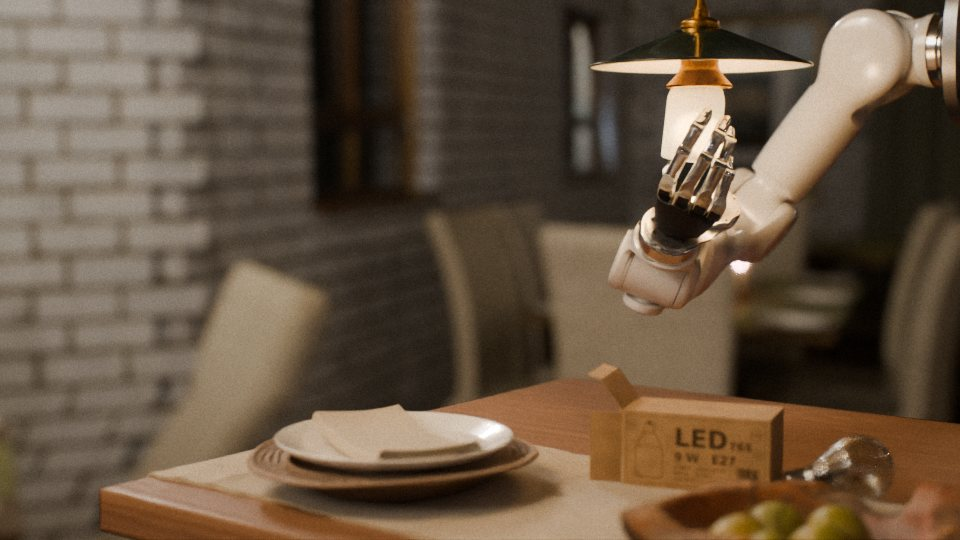
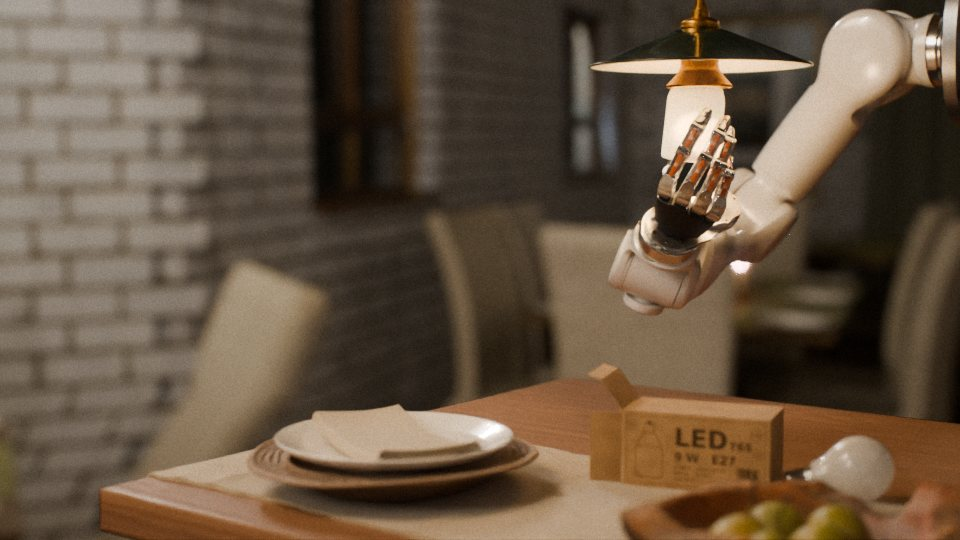
control grasp final: 3 of 3 judged episodes pass; correction

Changed region(s): [[0.6875, 0.237, 0.7812, 0.4148], [0.8438, 0.8, 0.9375, 0.9481]]

diff --git a/status.html b/status.html
@@ -16,7 +16,7 @@ code{font-size:12.5px}
 details{margin:8px 0}summary{cursor:pointer;font-weight:600}
 .chips span{display:inline-block;font-size:11.5px;padding:1px 7px;border-radius:9px;border:1px solid #d6d4cc;margin:0 4px 4px 0;background:#f6f5f1}
 </style></head><body>
-<p class="na"><a href="index.html">dashboard</a> · state as of 2026-11-24 16:24 · page built 2026-11-24 16:24</p>
+<p class="na"><a href="index.html">dashboard</a> · state as of 2026-11-24 16:55 · page built 2026-11-24 16:55</p>
 <h1>Where the overnight work stands</h1>
 <p>You asked, on the night of 23 to 24 November, for the Embodied First Exam's dexterous tasks to be ported into our MuJoCo with
 our robot and the physics proven the same, and for a skill layer in which every skill plans its motion from the depth image, iterated
@@ -24,13 +24,13 @@ without stopping. This page is the short version; the detail is on <a href="efe.
 <a href="skills_v2.html">the skills page</a>.</p>
 <p class="na">Nothing ran from about 10:45 to 12:10 (the connection to the model API was down; every worker stopped and was restarted at 12:17 from the files on disk). One memory incident at 07:18 (a 33 GB script of the other session, killed by the kernel); nothing of this work was lost in either.</p>
 <div class="box zh"><p style="margin:5px 0">移植（Embodied First Exam 灵巧手任务）：两个 MuJoCo 套件共 51 个任务（DexHandExam 30 个、DexToolBench 21 个），任务描述已全部记录。原始代码已在它自带的 Docker 镜像里逐个跑通并录像。51 个任务都和原始代码做了逐控制步的动力学对比：在同一个 MuJoCo 版本内，导出的场景与原始代码逐比特一致；但原始版本（3.4.0 / 3.3.7）和我们的 3.8.0 之间运动并不相同，基准自带的参考解在我们的引擎里 DexHandExam 41 个中只有 26 个仍然成功，DexToolBench 6 个完整的参考解一个也没有。渲染：DexHandExam 的 30 个任务做了逐像素对比（同类软件渲染器下平均差不超过 0.14/255），DexToolBench 只比了第一帧（平均差约 1/255）。</p><p style="margin:5px 0">换机器人：我们的天机 + Wuji 2 机器人已放进全部 51 个场景，其中 47 个（DexHandExam 26 个、DexToolBench 21 个）建好了任务目录，并在联合仿真里跑过一次 3 秒的静置回合（机器人不发任何指令），用原始成功判据判定为“未完成”；这是预期结果，不是成绩。另外 4 个没有做到：3 个“物体一开始就握在手里”的任务，原始起始姿态搬不到我们的手上；paper_half_fold 在我们的引擎里无法仿真（纸会从桌沿穿下去），等你决定。</p><p style="margin:5px 0">技能层（参照 ASPIRE 的封装方式）：新包 s2/dexharness/cap 已建成，共 14 个技能。每个技能都以当前深度图为输入，只执行运动规划器给出的轨迹：碰撞模型由深度图建立，轨迹的每一行都是天机臂 IK 解出并做过碰撞检查的关节构型；抬升是每 5 mm 求一次 IK 的竖直线，某一点无解时改走关节空间路径，再不行就拒绝。目前只有 4 个技能（移动到位姿、抬升、撤离、回原位）在真实联合仿真里跑过：共 12 次调用，空手、不带跟踪策略，机器人没有碰到任何东西，掌心平均跟踪误差约 1 mm，每次调用都有三联视频。同一批测试里还查出一个错误结果：移动途中握拳时，规划只检查了张开的手，拳头压到了球上，技能却报告成功；现已修复并经独立复测确认（球旁握拳的指令在动作前即被拒绝，球不再被碰动），复测另查出两处遗留问题，正在第二轮里修。其余 10 个技能还没有在联合仿真里跑过，也没有视频。</p><p style="margin:5px 0">还没有做到的：新技能层还没有抓起过任何物体（不论带不带跟踪策略），也没有尝试过任何一个移植任务，所以没有任何任务被完成；这些正在第二轮里做（已于 13:19 启动）。另外，10:45 到 12:10 模型 API 断线，所有工作进程停了约一个半小时，12:17 重新启动。</p><p style="margin:5px 0">需要你决定的事项紧接在下面（“Decisions”）。本页的数字已由四个独立检查进程逐条对照文件核对过，下面是改正后的版本。</p></div>
-<div class="kpis"><div class="kpi"><b>51 of 51</b><span>task descriptions recorded (the two MuJoCo suites; the exam labels 62 as dexterous)</span></div><div class="kpi"><b>51 of 51</b><span>tasks compared step by step with the original code: identical inside one MuJoCo version, not between the original&#x27;s version and ours</span></div><div class="kpi"><b>47 of 51</b><span>tasks with our robot in the scene, a task folder and a 3-second idle episode judged by the original rule (DexHandExam 26 of 30, DexToolBench 21 of 21)</span></div><div class="kpi"><b>0</b><span>ported tasks attempted or solved</span></div><div class="kpi"><b>6 of 18</b><span>skills of the new layer that have run in the co-simulation (11 tools beside them, one a placeholder)</span></div><div class="kpi"><b>0</b><span>objects grasped through the new layer, with or without the tracking policy</span></div></div>
+<div class="kpis"><div class="kpi"><b>51 of 51</b><span>task descriptions recorded (the two MuJoCo suites; the exam labels 62 as dexterous)</span></div><div class="kpi"><b>51 of 51</b><span>tasks compared step by step with the original code: identical inside one MuJoCo version, not between the original&#x27;s version and ours</span></div><div class="kpi"><b>47 of 51</b><span>tasks with our robot in the scene, a task folder and a 3-second idle episode judged by the original rule (DexHandExam 26 of 30, DexToolBench 21 of 21)</span></div><div class="kpi"><b>0</b><span>ported tasks attempted or solved</span></div><div class="kpi"><b>6 of 21</b><span>skills of the new layer that have run in the co-simulation (12 tools beside them, one a placeholder)</span></div><div class="kpi"><b>0</b><span>objects grasped through the new layer, with or without the tracking policy</span></div></div>
 <div class="box warn"><b>What is not done.</b> No ported task has been attempted, let alone solved. Nothing has been grasped through
-the new skill layer, with or without the tracking policy. Only 6 of its 18 skills have run in the co-simulation, none with the tracking policy. The port
+the new skill layer, with or without the tracking policy. Only 6 of its 21 skills have run in the co-simulation, none with the tracking policy. The port
 and the layer are the ground those attempts stand on; the attempts are the next round.</div>
 
 <h2>Current round (started 14:35): the skill layer on the 50 in-house tasks</h2>
-<ul><li><b>Your change of 16:15: S2 sees only through a head camera on the robot, looking down; no third-person camera.</b> Being made now: one camera with depth mounted on the robot's stand above the arm bases is the only source of the pictures S2 looks at and of the depth every skill plans against; the scene's own cameras are refused to the agent side; the hands' wrist cameras are off too unless you say otherwise. A scene camera still films each episode for this site, for viewers only, and the video will say so. <b>Every result below was obtained with four scene cameras, before this rule</b>; the tasks that passed (t41, t19) and the paperweight grasp are re-run under the head camera as soon as the change is in, to see whether the results hold.</li><li>Your instruction: SAM 3D for the S2 layer; skills that generate motion from depth and from what the policy can do; a loop of S2 -> skill -> S2 -> skill; probe and test on the 50 in-house tasks (daily50); success rate and annotated videos on a sub page; maximise the success rate. Results page: <a href="daily50_run.html">daily50_run.html</a> (generated only from episode records).</li><li><b>Result so far: no counted test episode yet, so there is no success rate.</b> In development (never counted): PASS by the task's own rule on <b>2 tasks</b> so far (t41: 2 of 3 episodes; t19: 1 of 2), none yet on t49 and t27. About 20 task scenes were rewritten by another session at 16:00 while these ran (t41 and t19 among them): the page marks those episodes as run on an earlier version of the scene, and the counted test series waits until the tasks are frozen.</li><li><b>First PASS of a task by an LLM agent in the live loop (15:51, t41 "switch on the power strip", a development episode):</b> the agent looked, pressed the switch once with a guarded fingertip press (1 cm travel, 3 cm/s), and went home; the task's own rule says PASS. Its first episode had FAILED: the default press toggled the switch but shoved the strip 2.7 cm and pulled the plug, and a second press switched it off again; the agent learned from that. It is a development episode: the agent saw the host's verdict after closing the first one. It is not yet audited and not a success rate. <b>That agent has finished (16:01): 3 episodes, FAIL, PASS, PASS.</b> A press 5 mm deep does not toggle the switch, 1 cm does and moves the strip 7 mm, 2 cm shoves it. What it could not get from the tools: the press skill gives no feedback at all on a light object (the same reply whether it toggled, did nothing, or shoved the strip); perception does not return the switch pad, so the agent converted a pixel of the top camera picture into a world point itself; and it disclosed that the press depth was its own estimate from the pictures, and that the scene never varies, so fresh perception and memory cannot be told apart there.</li><li>Pilot, t49 "weigh the orange" (development): no pass in three episodes; the scripted grasp lifts the orange, but it is lost at the start of the carry every time (onto the saucer, to the floor). Its agent was cut off by an API failure during the fourth episode; the grip limits during a carry are being measured from those records. <b>t19 "put the cream jar in the drawer and close it": PASS in its second episode (16:04).</b> The agent grasped the jar with scripted hand postures, carried it over the open drawer, dropped it in, made a fist and pushed the drawer shut with the side of the fist by a motion it planned itself, then retreated; 1,170 of the 1,500 ticks. The first episode failed only on the drawer left 3.9 cm open. One pass, not repeated. What the tools got wrong on the way: the scripted grasp reported "missed" both times while the jar was in the hand; the push skill and the guarded press could not close the drawer (finger clearance, arm reach), so the agent planned the push from segments; planner time charged against the budget varied between 33 and 150 ticks for the same call with machine load.</li><li><b>Declared control grasp with the tracking policy (the paperweight with its own clip): the three episodes analysed so far all PASS the rule declared beforehand</b> (held at least 4 cm up by two or more hand links, nothing else touching, for 2 s); two more are recorded and not yet analysed. This is the first time the new layer has picked up and held an object with the policy.</li><li><b>First grasp with the tracking policy through the new layer (15:02, task t27, a development episode):</b> in a live session the grasp skill bound a recorded clip and the policy closed the fingers; by the simulator's record the paperweight was lifted 54 mm with at least two hand links on it for 56 ticks (1.1 s), then fell back to the desk about 0.7 s into the hold. The task's rule says FAIL (nothing was placed on the poster); its term "lifted in the hand" was true. Two defects it exposed: the skills' own checks said "held" while the object was back on the desk, and perception took the pentagonal paperweight for a cylinder, so another shape's clip was bound (c154 instead of its own c129). The annotated video is on <a href="daily50_run.html">the results page</a>.</li><li>Done, the live S2 loop (15:41): a session that stays open between steps (start, step, look, close); S2 gets camera and depth pictures and the public results of its step, never the verdict; S2's thinking time is not charged, planner time is. Four simulator slots: three sessions at once give identical plans to one alone. An idle live session on each of the 50 tasks is judged "not done" by the task's own rule with every term measured (319 of 319), and the scene mechanisms ran in the 36 tasks that have them, so every task can be judged from a live session. No LLM agent has driven a session yet; that is the pilot.</li><li><b>SAM 3 and SAM 3D Objects do NOT run, and I was wrong to say they were on this machine</b> (15:41). The cache folders held only pointers. SAM 3: the machine's Hugging Face token has no access (HTTP 403). SAM 3D Objects: the worker downloaded its checkpoints (13 GB), but cloning its code repository was denied by the permission system, three times, and was not worked around. What runs instead, from files already here: SAM 2.1 for masks and CLIP for matching a name to a mask, as a GPU service that keeps 5 GB free (the guard fired once for real while Blender was rendering). Geometry is good (centres within 0.1 to 6 mm of the truth on five objects) and masks separate what depth merges (a bulb from its box, a jar from the cloth). Naming is weak: 5 of 9 named objects were picked correctly ("the hammer" picked a vise), and an object that is not there is never rejected. There is no 3D shape completion. To get the real thing, two steps are yours: request access to facebook/sam3 for the Hugging Face account, and clone github.com/facebookresearch/sam-3d-objects yourself (or allow it).</li><li>Done, annotated episode video and results page (15:02): a caption bar with the S2 turn and its stated intent, the running skill and its outcome, a tick counter against the budget, a marker when the tracking policy drives the fingers, contact events, and a closing card with the task's own rule term by term. Exercised only on made-up episodes and on today's earlier runs.</li><li>Done, readiness study of the 50 tasks by reading their files (15:07; nothing run): 7 look attemptable with a policy grasp and today's skills, 15 with scripted hand postures, 23 need one or two named additions, 5 are out of reach for now. Only 3 tasks (t18, t27, t46) have a recorded clip of their own object shape that is in the policy's training recipe and that the planner accepts; 13 more have an own-shape clip outside the recipe; 16 only another shape's clip; 18 none. 36 of the 50 outcomes exist only while the scene's mechanism hook runs, which has never run under skill calls. Depth alone does not separate 22 objects from what they stand on. Fourteen rules have a known way to pass by a wrong method; an auditor will look at every pass on those.</li><li>Done, four new skills and the first contact skills in the co-simulation (15:37; no tracking policy, scripted hand postures): scripted grasp, turn about an axis, set-down and stroke are in the layer (18 skills now). In the co-simulation, <b>push</b> moved a ball 89 mm with fingers only (1.2 N) and <b>guarded press</b> stopped on the table at 2.9 N with a fine threshold and at 77 N with the default; it does not stop on a free ball (the ball rolls away), and "press and stay" holds a depth, not a force (43.6 N on the table). On the CPU copy of the rig: a scripted grasp turned a lid on its jar by 66.9 degrees with only fingers touching, and lifted a loose lid 42 mm. <b>Two things do not work:</b> on a free 60 mm cube the scripted grasp lifts it but with the wrist flange and palm on it, and the skill reports success because it has no signal to tell; and set-down is refused whenever something is actually in the hand (it has only executed with an empty hand). Videos of the three co-simulation runs are on <a href="skills_v2.html">the skills page</a>.</li><li>Running: the declared control grasp with the tracking policy on the paperweight with its own clip (at most five episodes, a rule written before any episode), and a pilot in which LLM agents drive live sessions on three tasks.</li><li>The 50 tasks are not frozen: your other session still had fix or review agents on 34 of them at 14:49. Every episode records the hashes of the task files it ran on, the page drops an episode whose task changed afterwards, and the counted test series runs only when that session says the tasks are final.</li><li>Defaults taken: planner time is charged against each task's time budget, S2's thinking time is not (the simulator holds); the policy may be bound to another shape's clip, labelled and split out on the page; S2 is not told the object's shape class; probe episodes are development and never count in the rate.</li></ul>
+<ul><li><b>Your change of 16:15: S2 sees only through a head camera on the robot, looking down; no third-person camera.</b> Being made now: one camera with depth mounted on the robot's stand above the arm bases is the only source of the pictures S2 looks at and of the depth every skill plans against; the scene's own cameras are refused to the agent side; the hands' wrist cameras are off too unless you say otherwise. A scene camera still films each episode for this site, for viewers only, and the video will say so. <b>Every result below was obtained with four scene cameras, before this rule</b>; the tasks that passed (t41, t19) and the paperweight grasp are re-run under the head camera as soon as the change is in, to see whether the results hold.</li><li>Your instruction: SAM 3D for the S2 layer; skills that generate motion from depth and from what the policy can do; a loop of S2 -> skill -> S2 -> skill; probe and test on the 50 in-house tasks (daily50); success rate and annotated videos on a sub page; maximise the success rate. Results page: <a href="daily50_run.html">daily50_run.html</a> (generated only from episode records).</li><li><b>Result so far: no counted test episode yet, so there is no success rate.</b> In development (never counted): PASS by the task's own rule on <b>2 tasks</b> so far (t41: 2 of 3 episodes; t19: 1 of 2), none yet on t49 and t27. About 20 task scenes were rewritten by another session at 16:00 while these ran (t41 and t19 among them): the page marks those episodes as run on an earlier version of the scene, and the counted test series waits until the tasks are frozen.</li><li><b>First PASS of a task by an LLM agent in the live loop (15:51, t41 "switch on the power strip", a development episode):</b> the agent looked, pressed the switch once with a guarded fingertip press (1 cm travel, 3 cm/s), and went home; the task's own rule says PASS. Its first episode had FAILED: the default press toggled the switch but shoved the strip 2.7 cm and pulled the plug, and a second press switched it off again; the agent learned from that. It is a development episode: the agent saw the host's verdict after closing the first one. It is not yet audited and not a success rate. <b>That agent has finished (16:01): 3 episodes, FAIL, PASS, PASS.</b> A press 5 mm deep does not toggle the switch, 1 cm does and moves the strip 7 mm, 2 cm shoves it. What it could not get from the tools: the press skill gives no feedback at all on a light object (the same reply whether it toggled, did nothing, or shoved the strip); perception does not return the switch pad, so the agent converted a pixel of the top camera picture into a world point itself; and it disclosed that the press depth was its own estimate from the pictures, and that the scene never varies, so fresh perception and memory cannot be told apart there.</li><li>Pilot, t49 "weigh the orange" (development): no pass in three episodes; the scripted grasp lifts the orange, but it is lost at the start of the carry every time (onto the saucer, to the floor). Its agent was cut off by an API failure during the fourth episode; the grip limits during a carry are being measured from those records. <b>t19 "put the cream jar in the drawer and close it": PASS in its second episode (16:04).</b> The agent grasped the jar with scripted hand postures, carried it over the open drawer, dropped it in, made a fist and pushed the drawer shut with the side of the fist by a motion it planned itself, then retreated; 1,170 of the 1,500 ticks. The first episode failed only on the drawer left 3.9 cm open. One pass, not repeated. What the tools got wrong on the way: the scripted grasp reported "missed" both times while the jar was in the hand; the push skill and the guarded press could not close the drawer (finger clearance, arm reach), so the agent planned the push from segments; planner time charged against the budget varied between 33 and 150 ticks for the same call with machine load.</li><li><b>Declared control grasp with the tracking policy (the paperweight with its own clip): final: 4 episodes, the first could not be judged, the next 3 of 3 PASS the rule declared beforehand</b> (held at least 4 cm up by two or more hand links, nothing else touching, for 2 s). Episode 1 never moved: the planner refused the clip because its fingers begin to pre-shape during the reach; that rule was relaxed (the contact phase may start later if the fingers are at most half closed there) and episodes 2 to 4 passed with the same program. Episodes 5 and 6 were NOT run: the scene file was rewritten by the other session at 16:00 and the experiment's own guard refused to continue on a changed scene. I was wrong at 16:24 to say two more were recorded. Many scene cameras, before the head-camera rule. This is the first time the new layer has picked up and held an object with the policy.</li><li><b>First grasp with the tracking policy through the new layer (15:02, task t27, a development episode):</b> in a live session the grasp skill bound a recorded clip and the policy closed the fingers; by the simulator's record the paperweight was lifted 54 mm with at least two hand links on it for 56 ticks (1.1 s), then fell back to the desk about 0.7 s into the hold. The task's rule says FAIL (nothing was placed on the poster); its term "lifted in the hand" was true. Two defects it exposed: the skills' own checks said "held" while the object was back on the desk, and perception took the pentagonal paperweight for a cylinder, so another shape's clip was bound (c154 instead of its own c129). The annotated video is on <a href="daily50_run.html">the results page</a>.</li><li>Done, the live S2 loop (15:41): a session that stays open between steps (start, step, look, close); S2 gets camera and depth pictures and the public results of its step, never the verdict; S2's thinking time is not charged, planner time is. Four simulator slots: three sessions at once give identical plans to one alone. An idle live session on each of the 50 tasks is judged "not done" by the task's own rule with every term measured (319 of 319), and the scene mechanisms ran in the 36 tasks that have them, so every task can be judged from a live session. No LLM agent has driven a session yet; that is the pilot.</li><li><b>SAM 3 and SAM 3D Objects do NOT run, and I was wrong to say they were on this machine</b> (15:41). The cache folders held only pointers. SAM 3: the machine's Hugging Face token has no access (HTTP 403). SAM 3D Objects: the worker downloaded its checkpoints (13 GB), but cloning its code repository was denied by the permission system, three times, and was not worked around. What runs instead, from files already here: SAM 2.1 for masks and CLIP for matching a name to a mask, as a GPU service that keeps 5 GB free (the guard fired once for real while Blender was rendering). Geometry is good (centres within 0.1 to 6 mm of the truth on five objects) and masks separate what depth merges (a bulb from its box, a jar from the cloth). Naming is weak: 5 of 9 named objects were picked correctly ("the hammer" picked a vise), and an object that is not there is never rejected. There is no 3D shape completion. To get the real thing, two steps are yours: request access to facebook/sam3 for the Hugging Face account, and clone github.com/facebookresearch/sam-3d-objects yourself (or allow it).</li><li>Done, annotated episode video and results page (15:02): a caption bar with the S2 turn and its stated intent, the running skill and its outcome, a tick counter against the budget, a marker when the tracking policy drives the fingers, contact events, and a closing card with the task's own rule term by term. Exercised only on made-up episodes and on today's earlier runs.</li><li>Done, readiness study of the 50 tasks by reading their files (15:07; nothing run): 7 look attemptable with a policy grasp and today's skills, 15 with scripted hand postures, 23 need one or two named additions, 5 are out of reach for now. Only 3 tasks (t18, t27, t46) have a recorded clip of their own object shape that is in the policy's training recipe and that the planner accepts; 13 more have an own-shape clip outside the recipe; 16 only another shape's clip; 18 none. 36 of the 50 outcomes exist only while the scene's mechanism hook runs, which has never run under skill calls. Depth alone does not separate 22 objects from what they stand on. Fourteen rules have a known way to pass by a wrong method; an auditor will look at every pass on those.</li><li>Done, four new skills and the first contact skills in the co-simulation (15:37; no tracking policy, scripted hand postures): scripted grasp, turn about an axis, set-down and stroke are in the layer (18 skills now). In the co-simulation, <b>push</b> moved a ball 89 mm with fingers only (1.2 N) and <b>guarded press</b> stopped on the table at 2.9 N with a fine threshold and at 77 N with the default; it does not stop on a free ball (the ball rolls away), and "press and stay" holds a depth, not a force (43.6 N on the table). On the CPU copy of the rig: a scripted grasp turned a lid on its jar by 66.9 degrees with only fingers touching, and lifted a loose lid 42 mm. <b>Two things do not work:</b> on a free 60 mm cube the scripted grasp lifts it but with the wrist flange and palm on it, and the skill reports success because it has no signal to tell; and set-down is refused whenever something is actually in the hand (it has only executed with an empty hand). Videos of the three co-simulation runs are on <a href="skills_v2.html">the skills page</a>.</li><li>Running: the declared control grasp with the tracking policy on the paperweight with its own clip (at most five episodes, a rule written before any episode), and a pilot in which LLM agents drive live sessions on three tasks.</li><li>The 50 tasks are not frozen: your other session still had fix or review agents on 34 of them at 14:49. Every episode records the hashes of the task files it ran on, the page drops an episode whose task changed afterwards, and the counted test series runs only when that session says the tasks are final.</li><li>Defaults taken: planner time is charged against each task's time budget, S2's thinking time is not (the simulator holds); the policy may be bound to another shape's clip, labelled and split out on the page; S2 is not told the object's shape class; probe episodes are development and never count in the rate.</li></ul>
 
 <h2>Decisions</h2>
 <h3>Needs your answer</h3>
@@ -63,6 +63,6 @@ and the layer are the ground those attempts stand on; the attempts are the next 
 <code>SEAMS.md</code>); simulator side <code>handson_bridge/skill_server.py</code>.</li>
 <li>The study of what each task needs: <code>s2/outputs/skills_dev/efe_readiness/PLAN.md</code>. The first control grasp, declared:
 <code>s2/outputs/skills_dev/obj_pack/CONTROL_GRASP.md</code>. The check of this page: <code>s2/outputs/skills_dev/status_check/results.json</code>.</li>
-<li>Nothing was committed in the main repository tonight; the site was published (about 702 MB of the 1 GB limit).</li>
+<li>Nothing was committed in the main repository tonight; the site was published (about 697 MB of the 1 GB limit).</li>
 </ul>
 </body></html>

diff --git a/daily50.html b/daily50.html
@@ -20,7 +20,7 @@ ul.log{padding-left:20px;font-size:13.5px} ul.log li{margin:6px 0}
 details{margin:6px 0 0;font-size:12.5px;color:#444} summary{cursor:pointer;color:#333} .op{margin:6px 0 2px;line-height:1.5}
 ul.pr{margin:6px 0 0;padding-left:18px} ul.pr li.no{color:#9b1c14} .links{font-size:12.5px;margin:8px 0 0}
 </style></head><body>
-<p class="na2"><a href="index.html">dashboard</a> · page generated 2026-11-24 16:41 EST from the files of the run; it is rewritten as the work goes on</p>
+<p class="na2"><a href="index.html">dashboard</a> · page generated 2026-11-24 16:42 EST from the files of the run; it is rewritten as the work goes on</p>
 <h1>daily50 — fifty real-life tabletop tasks, photorealistic, in MuJoCo</h1>
 <p class="sub">Work in progress, started 2026-11-24 01:30. In every task the object in the robot's hand is an object mesh from the
 owner's hand-object interaction data pack, with its shape unchanged. The scene stands on a table in a real room, the robot is the
@@ -28,9 +28,9 @@ project's shipped Tianji dual-arm rig with Wuji 2 hands, and the dynamics run in
 physics: a bulb screwed into its holder lights up, a hammered nail goes in, a spray bottle sprays. The pictures are path-traced
 from the same MuJoCo scene and state.</p>
 
-<div class="zh"><b>现在的进度（2026-11-24 16:41 EST）</b>：50 个任务的场景都已搭好并有照片级主图。<b>30</b> 个已通过独立终审，
+<div class="zh"><b>现在的进度（2026-11-24 16:42 EST）</b>：50 个任务的场景都已搭好并有照片级主图。<b>30</b> 个已通过独立终审，
 <b>20</b> 个终审查出问题、正在返修或等待再评审，<b>0</b> 个等待独立评审，<b>0</b> 个还在第一轮（搭建、初审、返修）。
-“通过”的含义见下方说明；这些都是机器人按脚本在场景里做动作的检查，不是策略完成任务的成功率。工作记录全文在仓库的 <code>s2/benchmark/InHouse/task.md</code>。</div>
+“通过”的含义见下方说明；这些都是机器人按脚本在场景里做动作的检查，不是策略完成任务的成功率。<b>照片级返修轮（16:10 起）</b>：50 个任务此前都已通过物理、功能、判据终审，但主图只有 7/10；现在逐个只改外观（扫描资产、磨损、抓握、构图，不动物理和判据），由独立评审按 8/10 的标准重新打分，目前 21 个已评、2 个达到 8 分。“返修中”的任务多数是在这一轮里。工作记录全文在仓库的 <code>s2/benchmark/InHouse/task.md</code>。</div>
 
 <div class="sum">
 <div><b>50</b><span>tasks, all built</span></div>
@@ -39,6 +39,7 @@ from the same MuJoCo scene and state.</p>
 <div><b>0</b><span>waiting for a judge</span></div>
 <div><b>0</b><span>still in the first round</span></div>
 <div><b>34 / 34</b><span>physics / function checks passing on the current scene (16 being re-run)</span></div>
+<div><b>2 / 21</b><span>photoreal round (bar 8 of 10): reached it / judged so far</span></div>
 <div><b>50</b><span>with photoreal stills</span></div>
 <div><b>50</b><span>with a photoreal clip</span></div>
 </div>
